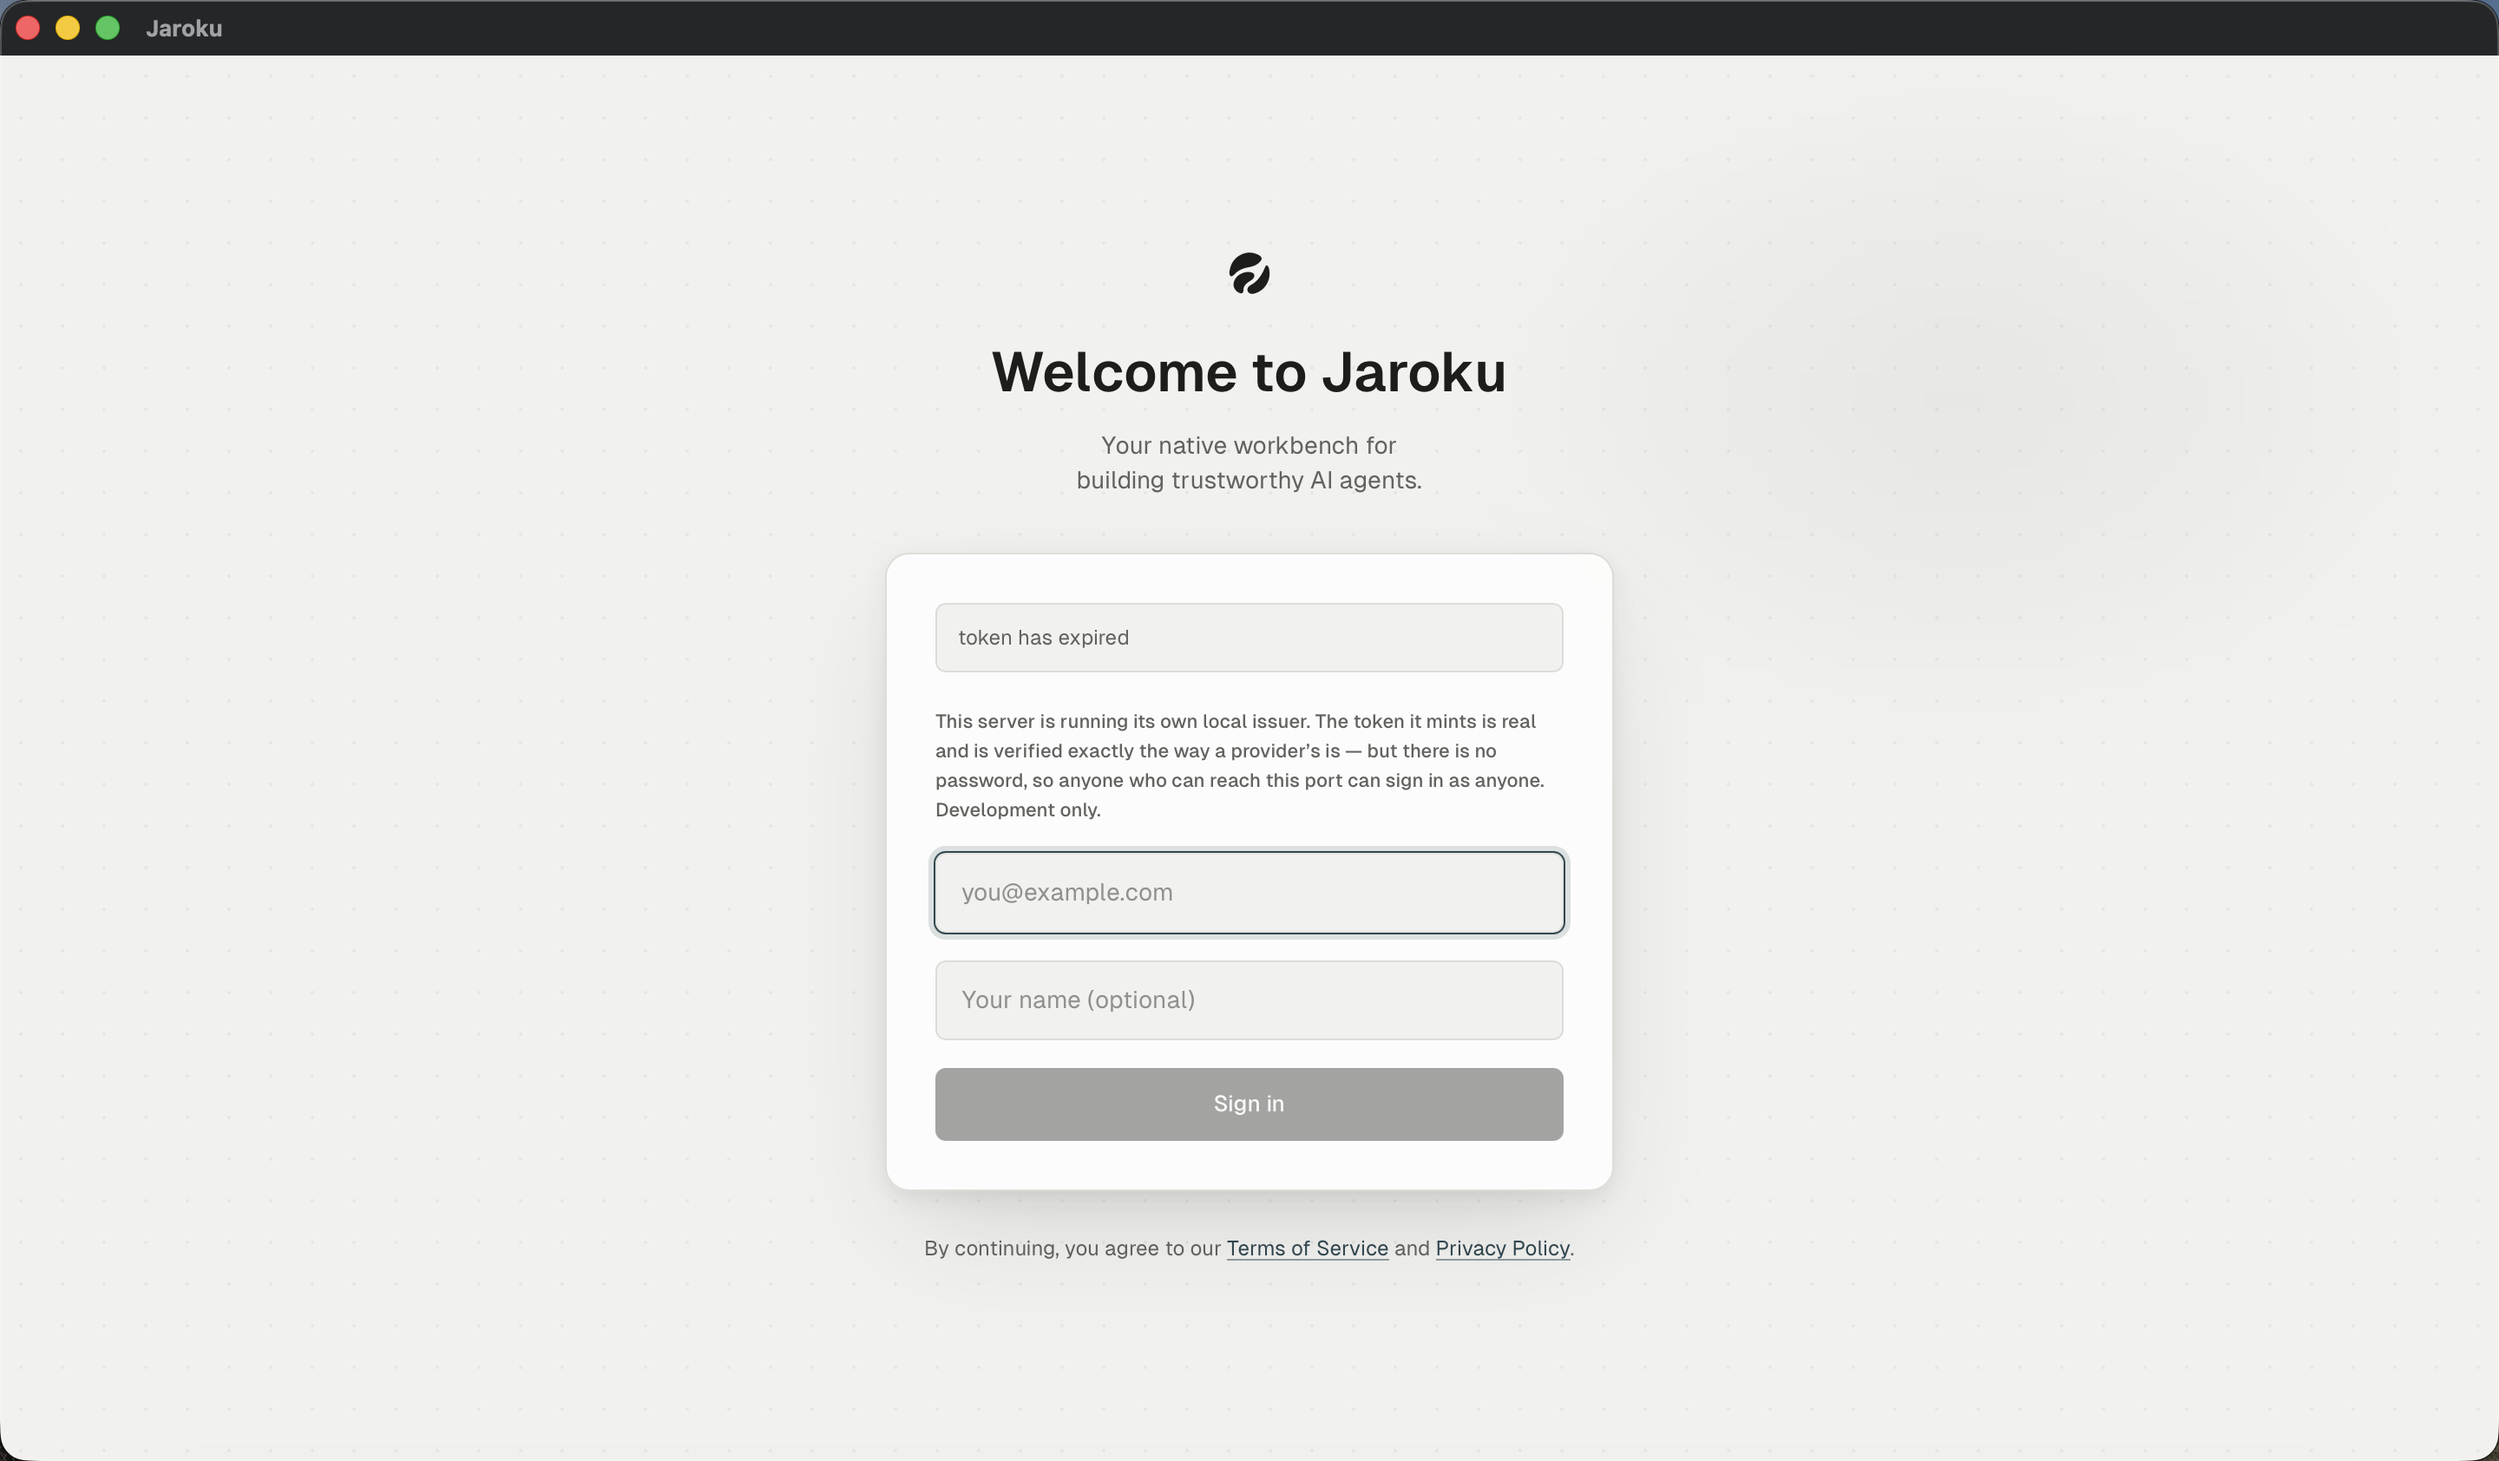
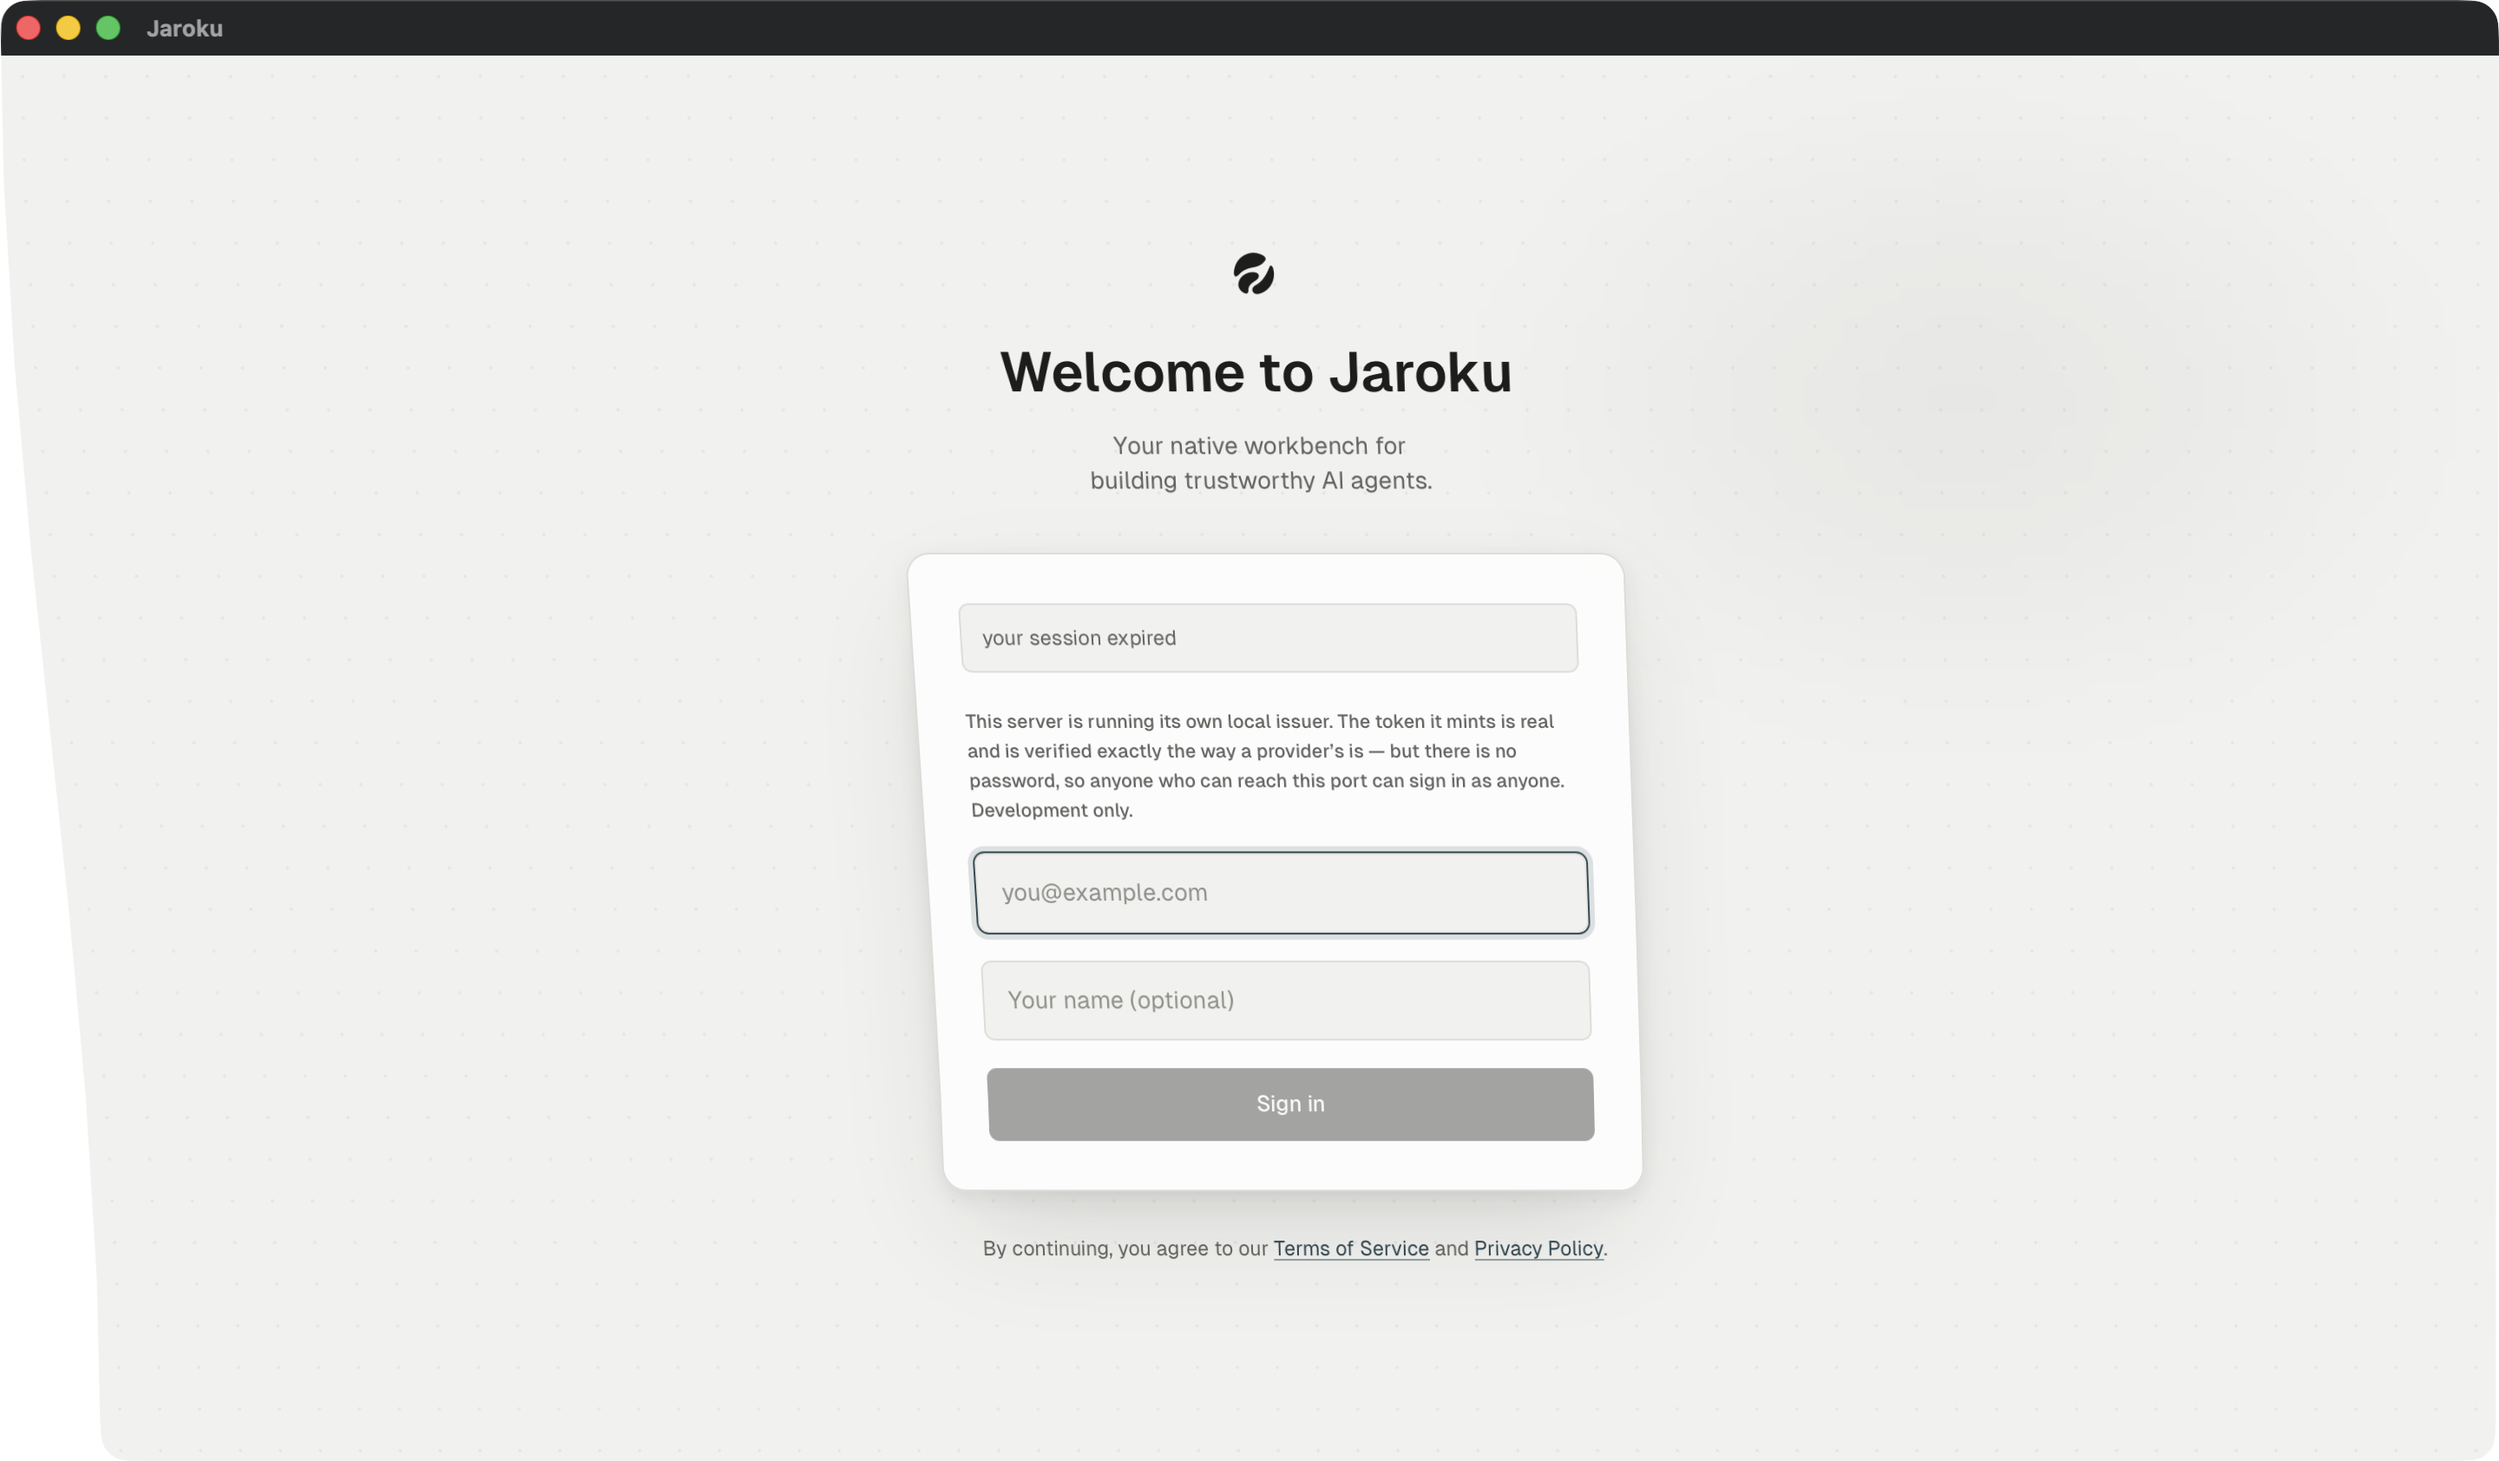
every card on the Activity dashboard answers an empty range with an em dash and a sentence except the event feed, which renders a blank box whose loading skeleton and empty state are the same invisible grey
Reproduced in two sessions at 30d. The component has both a skeleton and an empty sentence
and neither is legible: bg-hair/40 on a card that is already near-white means a feed still
loading and a feed with nothing in it look identical, and both look like a rendering fault.
The one card whose job is to say what happened is the one that says nothing.

The Inbox is filed as the fourth destination and explicitly not Memory, with
FullScreenView's own record of why — a proposed memory is an item answered where it is
raised rather than a tab somebody goes and reads. Its Cockpit pointer is documented as a
count and a destination and nothing else, including the race that a second Allow button
would create over one nonce.

The sign-in screenshot is replaced with a real session-expiry, which happened during the
audit when the relay closed an hour-old socket, so the notice in that state is the
product's own words rather than a reconstruction.

diff --git a/ui-audit/screens/activity/activity-dashboard/SCREEN.md b/ui-audit/screens/activity/activity-dashboard/SCREEN.md
@@ -1,0 +1,81 @@
+# SCREEN — Activity
+
+| | |
+|---|---|
+| **Screen ID** | `ACT-01` |
+| **Screen name** | Activity |
+| **Route / path** | `navView = "activity"` (rail item 5) |
+| **Parent area** | Activity |
+| **Purpose** | What the workspace has been doing, over a range |
+| **Primary user goal** | *"Is anything unusual happening?"* |
+
+## Header
+
+A **time-aware greeting** — `Good afternoon, Adarsh`, `Still up, Adarsh` — then
+`<workspace> · <kind>`. Right: a range switch, `24h | 7d | 30d`, with a calendar glyph.
+
+## Cards
+
+| Card | Contents |
+|---|---|
+| **SPEND** | a figure, a delta, *across the workspace, the last 30 days*, and a **share bar** with the provider named beside it |
+| **TOKENS** | a figure, `0 cached · 12.8k fresh`, and a sparkline |
+| **RUN HEALTH** | a figure or an em dash + *no run has settled in this range* |
+| **WORKSPACE PULSE** | a combined chart — *runs and spend over the last 30 days · columns are runs, **the line is spend*** |
+| **AGENT LEADERBOARD** | ranked agents, or *— no agent ran in the last 30 days* |
+| **MODEL MIX** | a share bar + a legend + *by share of spend, the last 30 days* |
+| **EVENT FEED** | a filterable feed, with a funnel control |
+| **RELEASES** | published and deployed versions — `Tracey · deployed · railway · v3 · 3d ago` |
+
+### The share bar's colours
+
+Both the SPEND strip and MODEL MIX use `SHARE_RAMP` — **five steps of neutral lightness, no hue**.
+This replaced two independent hardcoded palettes that handed Anthropic `#c98a5e` and Groq `#c99a52`,
+both within a few degrees of `STATUS.pending` — so *"a workspace using one model painted a
+full-width amber bar under the word SPEND, which reads as a warning or as something in flight rather
+than as a proportion, on the one page built to be quiet"* (`tokens.ts` `SHARE_RAMP`).
+
+The chart legend is the reason the bar can be quiet: every one of these surfaces names its series in
+a row beneath the bar.
+
+## The empty-range discipline
+
+A range with no model call in it still has a full row of zero buckets, so the tokens card used to
+draw a flat line along its own floor under a sentence saying nothing had run. It no longer does —
+see commit `f4e4420`. `RUN HEALTH` and `AGENT LEADERBOARD` both use an em dash plus a sentence.
+
+## State list
+
+| State | Screenshot | Notes |
+|---|---|---|
+| 24h | `range-24h.png` | Observed |
+| 7d | `default.png` | Observed |
+| 30d | `range-30d.png` | Observed |
+| loading | — | `IMPLEMENTED / NOT CURRENTLY OBSERVABLE` — `ActivityFeed.tsx:157-165` skeleton |
+| event feed populated | — | `IMPLEMENTED / NOT CURRENTLY OBSERVABLE` |
+| feed filtered by kind | — | `IMPLEMENTED / NOT CURRENTLY OBSERVABLE` — `FEED_KINDS`, `actionForFeedKind` |
+
+## Observed defect — the event feed shows nothing at all
+
+**Reproduced in two separate sessions, at 30d.** Every other card on this dashboard answers an empty
+range with an em dash and a sentence. The `EVENT FEED` card renders a **tall blank region with no
+text**, no figure and no explanation.
+
+The component has both a skeleton and an empty sentence (`ActivityFeed.tsx:157-170`):
+
+- skeleton: a `bg-hair/40` block at `FEED_HEIGHT`, `aria-busy`
+- empty: `— nothing happened in the last 30 days` at 64px
+
+Neither is legible in the rendered card. `bg-hair/40` is `#E6E6E2` at 40% on a card that is already
+`#FBFBFA`, so **a feed still loading and a feed that is genuinely empty look identical — and both
+look like a rendering fault.** The one card on the dashboard with a `role`-free blank box is the one
+card whose job is to say what happened.
+
+![The event feed, blank](../../../findings/shots/event-feed-blank.png)
+
+## Implementation references
+
+`ActivityDashboard.tsx` · `ActivityView.tsx` · `ActivityHero.tsx` · `ActivityCards.tsx` (27 KB) ·
+`ActivityFeed.tsx` · `ActivityFigures.tsx` · `ActivityTeam.tsx` · `activityIcons.tsx` ·
+`store/activityStore.ts` · `lib/activityMetrics.ts`, `activityRange.ts`, `feedWindow.ts` ·
+`tokens.ts` `SHARE_RAMP` / `SHARE_ORDER` · channel `activity` · `server/src/activity/`

diff --git a/ui-audit/screens/inbox/inbox-board/SCREEN.md b/ui-audit/screens/inbox/inbox-board/SCREEN.md
@@ -1,0 +1,86 @@
+# SCREEN — Inbox
+
+| | |
+|---|---|
+| **Screen ID** | `INB-01` |
+| **Screen name** | Inbox |
+| **Route / path** | `navView = "inbox"` (rail item 4) |
+| **Parent area** | Inbox |
+| **Purpose** | What is waiting on **you**, as a board of items to answer |
+| **Primary user goal** | Clear the things only a person can decide |
+
+**The Inbox is the fourth destination and it is not Memory.** `FullScreenView.tsx:12-16` records that
+v0.3.0 named the fourth tab Memory, that nothing was ever built behind it, and that what shipped
+instead is *"the surface the idea was for — a memory Jaroku proposes from a failure → fix → pass
+triple is an ITEM on this board, answered where it is raised, rather than a tab somebody has to go
+and read."*
+
+## Composition — three lanes and a lane rail
+
+| Region | Contents |
+|---|---|
+| Header | `INBOX <count>` · refresh |
+| **Lane rail** (left, 32px) | five icons with counts: inbox · alert · shield · sparkles · clock |
+| **BLOCKING** | items that stop work — count in the header |
+| **ATTENTION** | *Nothing to look at* |
+| **PROPOSALS** | *Nothing to decide* |
+
+Each lane has its **own** empty sentence, and the two observed differ by verb — *look at* vs
+*decide* — which is the same discipline the Cockpit's three empty states follow.
+
+## Card anatomy
+
+A card is a title, a relative time, a hairline, and an action row. The one observed:
+
+> 🔑 **Add a provider key to start building**
+> 2d ago
+
+## The Cockpit pointer
+
+`CockpitPointer.tsx` renders **at the top of this board**, above the lanes, when at least one
+deployed job is `waiting`:
+
+> ⌂ **1** deployed job **is** waiting on an answer — *in the Cockpit* ›
+
+It renders a count and a destination **and nothing else** — deliberately thirty lines of markup
+rather than a card:
+
+> The moment it rendered the tool being asked about, or an Allow button, there would be two places
+> one confirmation can be answered — and worse than a duplicated surface, the two would race for one
+> nonce and the loser would report a failure for a question that had been answered correctly.
+
+`IMPLEMENTED / NOT CURRENTLY OBSERVABLE` — nothing is `waiting` in the seed.
+
+## Interactive elements
+
+Cards (click to expand) · lane-rail filters · per-card actions (`InboxCardActions.tsx`) ·
+drag between lanes (`useInboxDrag.ts`) · an undo toast (`InboxUndoToast.tsx`).
+
+Full keyboard grammar: `j`/`k`/`↵`/`e`/`x`/`s`/`Esc`/`/`/digits/`⌘Z` — see
+[`../../../navigation/keyboard.md`](../../../navigation/keyboard.md). **This board and Threads are
+the two with a complete row grammar; the Cockpit's list is the one without.**
+
+## Undo
+
+`⌘Z` and a toast. The toast is honest about the socket: an earlier version *"claimed forty items
+were dismissed over a socket that silently dropped the command"* (`lib/socket.ts:1986`), so the
+notice now follows the send rather than preceding it.
+
+## State list
+
+| State | Screenshot | Notes |
+|---|---|---|
+| empty | `empty.png` | The `adarsh@jaroku.dev` workspace |
+| one blocking item | `default.png` | Observed |
+| card expanded | — | `IMPLEMENTED / NOT CURRENTLY OBSERVABLE` — `InboxCard.tsx`, `InboxEvidence.tsx` |
+| attention / proposals populated | — | `IMPLEMENTED / NOT CURRENTLY OBSERVABLE` — 9 rows exist in `inbox_items`, all `BLOCKING`-kind |
+| dragging | — | `IMPLEMENTED / NOT CURRENTLY OBSERVABLE` — `useInboxDrag.ts` |
+| undo toast | — | `IMPLEMENTED / NOT CURRENTLY OBSERVABLE` — `InboxUndoToast.tsx` |
+| Cockpit pointer | — | `IMPLEMENTED / NOT CURRENTLY OBSERVABLE` — `CockpitPointer.tsx:34` |
+
+## Implementation references
+
+`InboxView.tsx` (28 KB) · `InboxCard.tsx` · `InboxCardActions.tsx` · `InboxActions.tsx` (25 KB) ·
+`InboxEvidence.tsx` · `InboxTray.tsx` · `InboxUndoToast.tsx` · `CockpitPointer.tsx` ·
+`inboxIcons.tsx` · `useInboxKeys.ts` · `useInboxDrag.ts` · `store/inboxStore.ts` ·
+`lib/inboxBoard.ts` · channel `inbox` · `server/src/inbox/`
